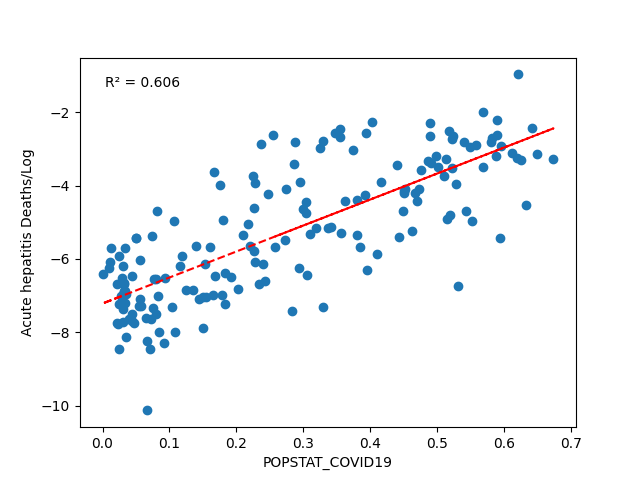
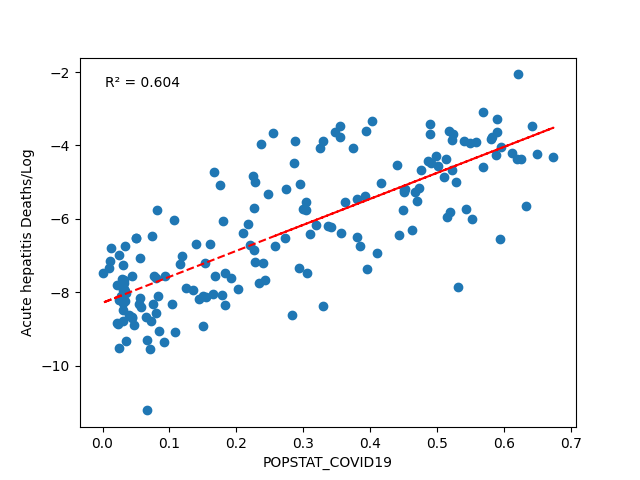
feat: Update gitignore and add analysis for selective diseases
Refactor file paths and update gitignore to only include required PNG files. Added analysis for other diseases, including correlation details for each disease.

diff --git a/ANALYSIS_FOR_OTHER_DISEASES/Analysis_of_Death_Data.py b/ANALYSIS_FOR_OTHER_DISEASES/Analysis_of_Death_Data.py
@@ -151,6 +151,39 @@ class MORTALITY_DATA:
         self.CORR_COEFFICIENT = pd.DataFrame(self.CORR_COEFFICIENT)
         self.CORR_COEFFICIENT.to_csv(os.path.join(SAVING_PATH_CSV, "Correlation_Coefficient.csv"))
 
+    def ANALYZER_FOR_SELECTED_DISEASES(self):
+        diseases = [
+            "Cardiovascular diseases",
+            "Acute hepatitis",
+            "Meningitis",
+            "Maternal disorders",
+            "Nutritional deficiencies",
+            "Tuberculosis",
+            "Neonatal disorders",
+            "Parkinson's disease",
+            "Alzheimer's disease and other dementias",
+            "HIV/AIDS",
+            "Malaria",
+            "Diarrheal diseases",
+            "Neoplasms",
+            "Protein-energy malnutrition",
+            "Chronic kidney disease",
+            "Chronic respiratory diseases",
+            "Cirrhosis and other chronic liver diseases",
+            "Diabetes mellitus",
+            "Digestive diseases",
+            "Lower respiratory infections",
+            "Conflict and terrorism",
+            "Drowning",
+            "Drug use disorders",
+            "Environmental heat and cold exposure",
+            "Exposure to forces of nature"
+        ]
+        for disease in diseases:
+            self.create_dataframe_for_diseases(disease)
+        self.CORR_COEFFICIENT = pd.DataFrame(self.CORR_COEFFICIENT)
+        self.CORR_COEFFICIENT.to_csv(os.path.join(SAVING_PATH_CSV, "Correlation_Coefficient.csv"))
+
 
 if __name__ == "__main__":
     data = MORTALITY_DATA.ADD_RANGE(2018, 2020)

diff --git a/ANALYSIS_FOR_OTHER_DISEASES/main.py b/ANALYSIS_FOR_OTHER_DISEASES/main.py
@@ -14,3 +14,15 @@ def main():
     else:
         mortality_data = MORTALITY_DATA(int(year))
     mortality_data.ANALYZER()
+
+def selective_main():
+    year = input("Enter the year(YYYY) or enter time period(YYYY-YYYY): ")
+    if '-' in year:
+        year = year.split('-')
+        mortality_data = MORTALITY_DATA.ADD_RANGE(int(year[0]), int(year[1]))
+    else:
+        mortality_data = MORTALITY_DATA(int(year))
+    mortality_data.ANALYZER_FOR_SELECTED_DISEASES()
+
+if __name__ == "__main__":
+    selective_main()
